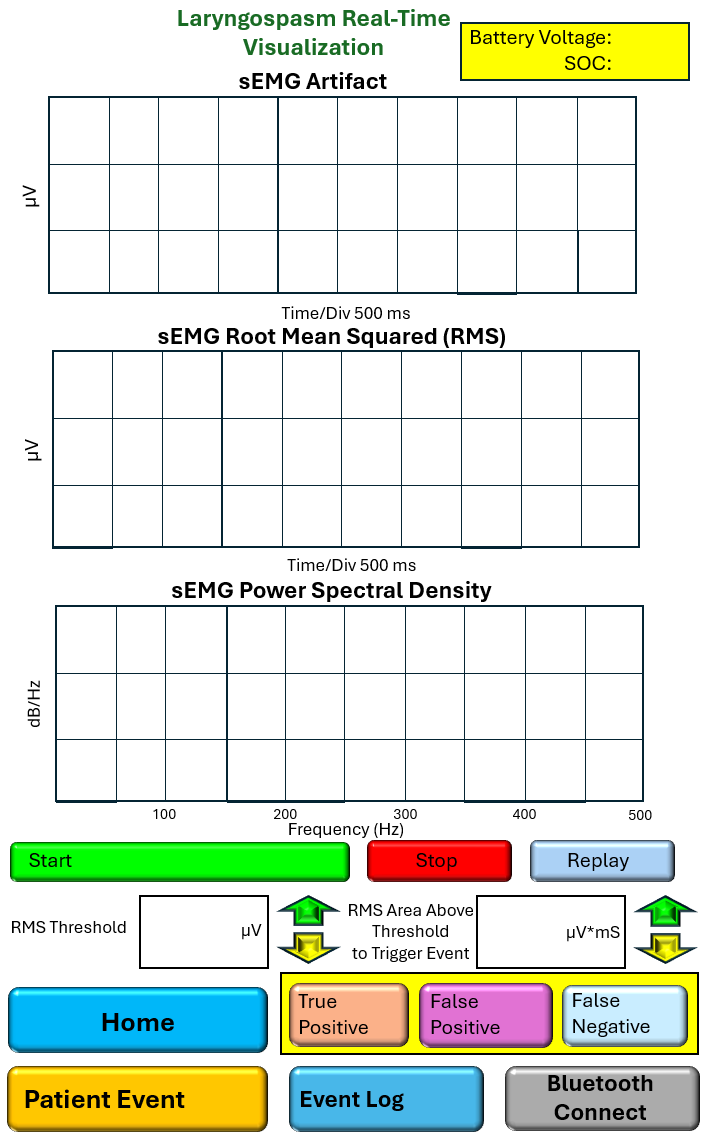
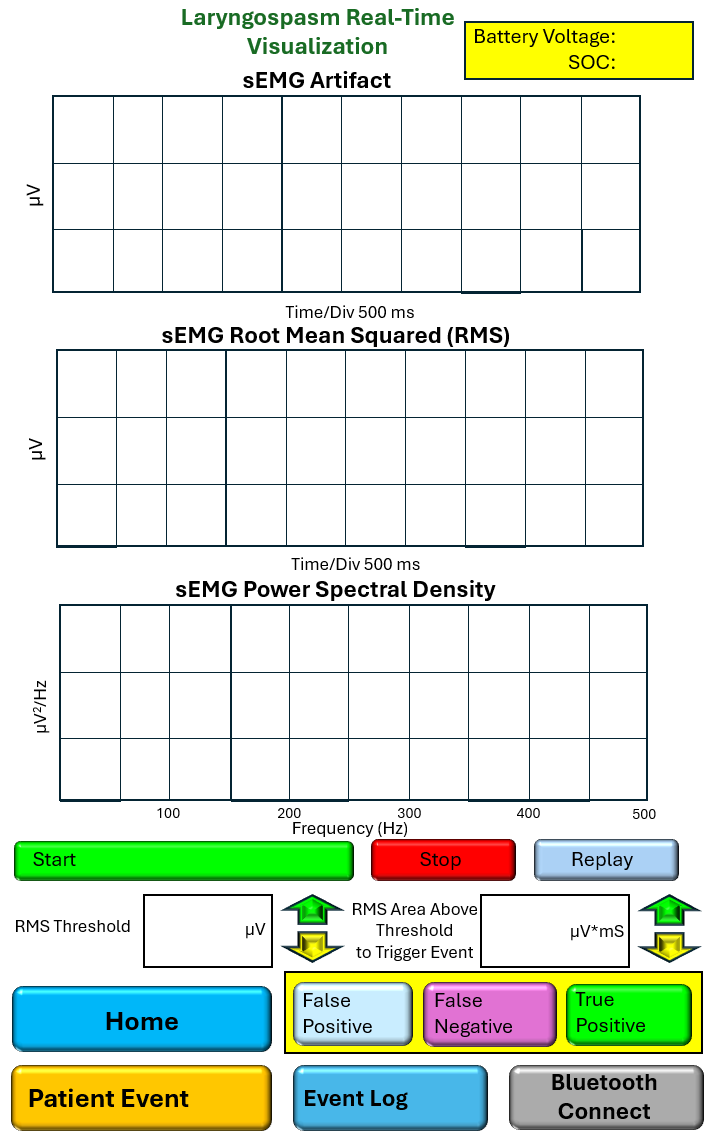
False Positive, False Negative, and True Positive Buttons Programmed (Counters).

diff --git a/app/src/main/java/com/esark/gasp/GameScreen.java b/app/src/main/java/com/esark/gasp/GameScreen.java
@@ -156,6 +156,8 @@ public class GameScreen extends Screen implements Input {
     // Add these to your class member variables at the top
     private List<Float> thresholdRollingHistory = new ArrayList<>();
     private List<double[]> burstShapeHistory = new ArrayList<>();
+    private int falsePositive = 0, falsePositiveTouch = 0, falsePositiveDownCount = 0;
+    private int falseNegative = 0, falseNegativeTouch = 0, falseNegativeDownCount = 0;
     private int truePositive = 0, truePositiveTouch = 0, truePositiveDownCount = 0;
     // Constructor
     public GameScreen(Game game) {
@@ -314,8 +316,24 @@ public class GameScreen extends Screen implements Input {
                         rightDownCount = 1;
                     }
                 }
-                /////////////////// True Positive //////////////////////////////////////////
+                /////////////////// False Positive //////////////////////////////////////////
                 else if (event.x > 715 && event.x < 1015 && event.y > 2330 && event.y < 2490) {
+                    falsePositiveTouch = 1;
+                    if (falsePositiveDownCount == 0) {       //Flag so we only increment the delay by 5 once per touch
+                        falsePositive++;
+                        falsePositiveDownCount = 1;
+                    }
+                }
+                /////////////////// False Negative //////////////////////////////////////////
+                else if (event.x > 1040 && event.x < 1365 && event.y > 2330 && event.y < 2490) {
+                    falseNegativeTouch = 1;
+                    if (falseNegativeDownCount == 0) {       //Flag so we only increment the delay by 5 once per touch
+                        falseNegative++;
+                        falseNegativeDownCount = 1;
+                    }
+                }
+                /////////////////// True Positive //////////////////////////////////////////
+                else if (event.x > 1390 && event.x < 1700 && event.y > 2330 && event.y < 2490) {
                     truePositiveTouch = 1;
                     if (truePositiveDownCount == 0) {       //Flag so we only increment the delay by 5 once per touch
                         truePositive ++;
@@ -523,6 +541,8 @@ public class GameScreen extends Screen implements Input {
                 rightUpCount = 0;
                 rightDownCount = 0;
                 manualPatientEventUpCount = 0;
+                falsePositiveDownCount = 0;
+                falseNegativeDownCount = 0;
                 truePositiveDownCount = 0;
             }
         } // This brace closes the for-loop
@@ -541,7 +561,7 @@ public class GameScreen extends Screen implements Input {
         // White text, centered at top (adjust 850/100 based on your font size)
         g.drawMedText(btStatus, 100, 130);
 //        g.drawRect(1245, 2535, 470, 200, 0);       //Bluetooth Connect
-        //     g.drawRect(45, 2000, 800, 100, 0);       //Start
+            // g.drawRect(45, 2000, 800, 100, 0);       //Start
         //   g.drawRect(910, 2000, 355, 100, 0);       //Stop
 
         // g.drawRect(1310, 2000, 355, 100, 0);       //Replay (Blue Button)
@@ -569,9 +589,9 @@ public class GameScreen extends Screen implements Input {
 
         //   g.drawRect(1600, 1330, 100, 270, 0);       //Start/Stop Save a Sample
         //  g.drawRect(1600, 1610, 100, 310, 0);       //Replay
-       // g.drawRect(715, 2330, 300, 160, 0);     //True Positive
-       // g.drawRect(1040, 2330, 325, 160, 0);     //False Positive
-       // g.drawRect(1390, 2330, 310, 160, 0);     //False Negative
+       // g.drawRect(715, 2330, 300, 160, 0);     //False Positive
+       // g.drawRect(1040, 2330, 325, 160, 0);     //False Negative
+       // g.drawRect(1390, 2330, 310, 160, 0);     //True Positive
 
         //////////////////// Battery Voltage and SOC //////////////////////////////////
         // Inside GameScreen.java -> present()// Draw Battery Voltage
@@ -600,13 +620,26 @@ public class GameScreen extends Screen implements Input {
             String rmsAreaThreshStr = String.valueOf(rmsAreaThresh);
             g.drawText(rmsAreaThreshStr, 1215, 2235);    //Manual RMS Width Above Threshold Text
         }
-
-        //////////////////// Manual RMS Area Above Threshold to Trigger Event //////////////////////
+        //////////////////// False Positive Button ///////////////////////////////////////////////////////////
+        if (falsePositiveTouch == 0) {
+            g.drawText("0", 895, 2415);    //Manual RMS Width Above Threshold Text
+        } else if (falsePositiveTouch == 1) {
+            String falsePositiveStr = String.valueOf(falsePositive);
+            g.drawText(falsePositiveStr, 895, 2415);    //Manual RMS Width Above Threshold Text
+        }
+        //////////////////// False Negative Button ///////////////////////////////////////////////////////////
+        if (falseNegativeTouch == 0) {
+            g.drawText("0", 1240, 2415);    //Manual RMS Width Above Threshold Text
+        } else if (falseNegativeTouch == 1) {
+            String falseNegativeStr = String.valueOf(falseNegative);
+            g.drawText(falseNegativeStr, 1240, 2415);    //Manual RMS Width Above Threshold Text
+        }
+        //////////////////// True Positive Button ///////////////////////////////////////////////////////////
         if (truePositiveTouch == 0) {
-            g.drawText("0", 930, 2425);    //Manual RMS Width Above Threshold Text
+            g.drawText("0", 1565, 2415);    //Manual RMS Width Above Threshold Text
         } else if (truePositiveTouch == 1) {
             String truePositiveStr = String.valueOf(truePositive);
-            g.drawText(truePositiveStr, 930, 2425);    //Manual RMS Width Above Threshold Text
+            g.drawText(truePositiveStr, 1565, 2415);    //Manual RMS Width Above Threshold Text
         }
 
         String eventCountStr = String.valueOf(eventCount);
